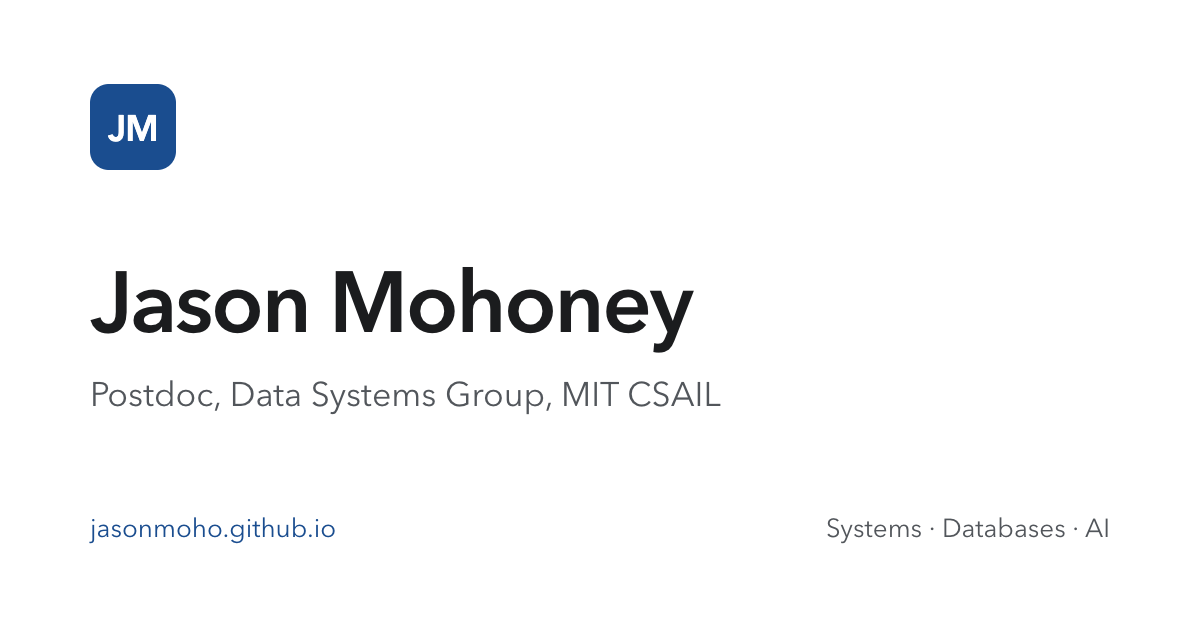
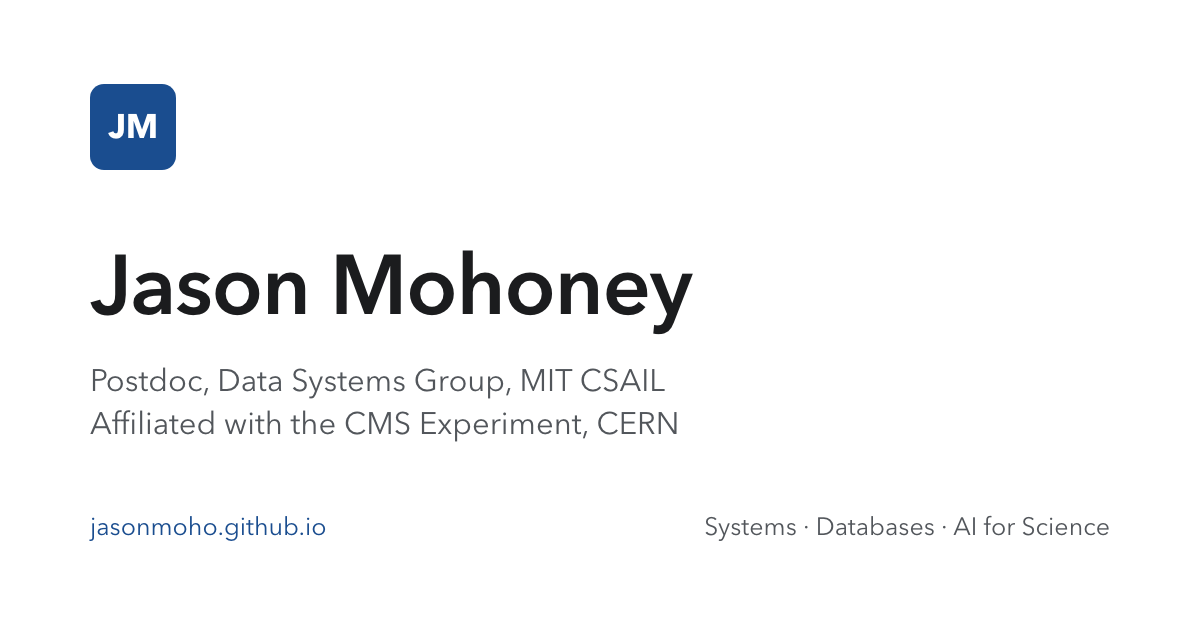
Add Akmon, CMS affiliation, project cards, and selected papers
- Bio and header mention the CMS experiment at CERN and an interest in
  AI for scientific operations and discovery.
- New Projects section with cards for Akmon and OKGs and for Archi.
- Organizer of the Knowledge Bases and Agents Workshop at CERN (2026)
  under Service.
- Add the Guarded Commits preprint; list Archi as CHEP 2026.
- Publications open on a Selected view with a switch to show all.
  Without JavaScript, and in print, every paper shows.
- Use each device's system font instead of Avenir Next.
- Footer with the last-updated month, a print style, and a faint
  underline on bio links (Lighthouse accessibility).
- Page descriptions, search data, and preview.png updated to match.

diff --git a/index.html b/index.html
@@ -4,16 +4,16 @@
 <meta charset="utf-8">
 <meta name="viewport" content="width=device-width, initial-scale=1">
 <title>Jason Mohoney</title>
-<meta name="description" content="Jason Mohoney is a postdoc in the Data Systems Group at MIT CSAIL working at the intersection of systems, databases, and artificial intelligence.">
+<meta name="description" content="Jason Mohoney is a postdoc in the Data Systems Group at MIT CSAIL, affiliated with the CMS experiment at CERN, working on systems, databases, and AI for scientific operations and discovery.">
 <link rel="canonical" href="https://jasonmoho.github.io/">
 <meta property="og:type" content="profile">
 <meta property="og:title" content="Jason Mohoney">
-<meta property="og:description" content="Postdoc in the Data Systems Group at MIT CSAIL working at the intersection of systems, databases, and artificial intelligence.">
+<meta property="og:description" content="Postdoc in the Data Systems Group at MIT CSAIL, affiliated with the CMS experiment at CERN. Systems, databases, and AI for scientific operations and discovery.">
 <meta property="og:url" content="https://jasonmoho.github.io/">
 <meta property="og:image" content="https://jasonmoho.github.io/preview.png">
 <meta property="og:image:width" content="1200">
 <meta property="og:image:height" content="630">
-<meta property="og:image:alt" content="Jason Mohoney, postdoc in the Data Systems Group at MIT CSAIL">
+<meta property="og:image:alt" content="Jason Mohoney, postdoc in the Data Systems Group at MIT CSAIL, affiliated with the CMS Experiment at CERN">
 <meta name="twitter:card" content="summary_large_image">
 <script type="application/ld+json">
 {
@@ -22,11 +22,18 @@
   "name": "Jason Mohoney",
   "url": "https://jasonmoho.github.io/",
   "jobTitle": "Postdoc",
-  "affiliation": {
-    "@type": "Organization",
-    "name": "MIT Computer Science and Artificial Intelligence Laboratory",
-    "url": "https://dsg.csail.mit.edu/"
-  },
+  "affiliation": [
+    {
+      "@type": "Organization",
+      "name": "MIT Computer Science and Artificial Intelligence Laboratory",
+      "url": "https://dsg.csail.mit.edu/"
+    },
+    {
+      "@type": "Organization",
+      "name": "CMS Experiment at CERN",
+      "url": "https://cms.cern/"
+    }
+  ],
   "alumniOf": {
     "@type": "CollegeOrUniversity",
     "name": "University of Wisconsin-Madison",
@@ -35,7 +42,8 @@
   "knowsAbout": [
     "Systems",
     "Databases",
-    "Artificial intelligence"
+    "Artificial intelligence",
+    "AI for scientific operations and discovery"
   ],
   "sameAs": [
     "https://scholar.google.com/citations?user=MT0bFLcAAAAJ&hl=en",
@@ -64,8 +72,8 @@
     margin: 0;
     background: var(--bg);
     color: var(--text);
-    /* Avenir Next ships with macOS and iOS; other systems fall back to their own sans-serif. */
-    font: 400 1.0625rem/1.65 "Avenir Next", Avenir, "Segoe UI", Roboto, "Helvetica Neue", Arial, sans-serif;
+    /* Each device's own interface font: San Francisco on Apple, Segoe UI on Windows, Roboto on Android. */
+    font: 400 1.0625rem/1.65 system-ui, -apple-system, "Segoe UI", Roboto, "Helvetica Neue", Arial, sans-serif;
     -webkit-font-smoothing: antialiased;
   }
   a { color: var(--accent); text-decoration: none; }
@@ -81,10 +89,12 @@
   .links .email { color: var(--muted); font-weight: 400; }
   .bio { font-size: 1.125rem; line-height: 1.7; margin: 0; }
   .bio b { font-weight: 600; }
+  /* Links inside running text need more than color to stand out, so they get a faint underline. */
+  .bio a { text-decoration: underline; text-decoration-thickness: 1px; text-decoration-color: rgba(26, 77, 143, 0.35); text-underline-offset: 0.18em; }
+  .bio a:hover { text-decoration-color: currentColor; }
 
   h2 { font-size: 0.8125rem; font-weight: 600; letter-spacing: 0.12em; text-transform: uppercase; color: var(--muted); margin: 3.5rem 0 1.5rem; padding-bottom: 0.65rem; border-bottom: 1px solid var(--line); }
-  .year { font-size: 1rem; font-weight: 600; margin: 2.25rem 0 0.85rem; font-variant-numeric: tabular-nums; }
-  .pub-year:first-of-type .year { margin-top: 0; }
+  .year { font-size: 1rem; font-weight: 600; margin: 0 0 0.85rem; font-variant-numeric: tabular-nums; }
   .pub { margin: 0 0 1.5rem; }
   .pub-title { font-weight: 600; line-height: 1.45; }
   .authors { color: var(--muted); font-size: 0.96875rem; margin-top: 0.2rem; }
@@ -93,6 +103,40 @@
   .venue { font-style: italic; }
   .venue:not(:last-child) { padding-right: 1rem; border-right: 1px solid var(--line); }
   .meta a { font-weight: 500; }
+
+  .projects { display: grid; grid-template-columns: repeat(auto-fit, minmax(17rem, 1fr)); gap: 1rem; }
+  .project { display: flex; flex-direction: column; align-items: center; text-align: center; gap: 0.75rem; padding: 1.5rem 1.5rem 1.25rem; border: 1px solid var(--line); border-radius: 10px; transition: border-color 0.15s, box-shadow 0.15s; }
+  .project:hover { border-color: #c5d2e3; box-shadow: 0 2px 10px rgba(26, 77, 143, 0.07); }
+  .project-art { flex: none; width: 3.5rem; height: 3.5rem; }
+  /* The body fills the card's height so each card's links sit on the same line. */
+  .project-body { min-width: 0; flex: 1; display: flex; flex-direction: column; align-items: center; }
+  .project-name { font-size: 1.0625rem; font-weight: 600; line-height: 1.45; margin: 0 0 0.2rem; }
+  .project-desc { color: var(--muted); font-size: 0.96875rem; line-height: 1.65; margin: 0 0 0.6rem; }
+  .project .meta { margin-top: auto; justify-content: center; }
+
+  .pub-filter { display: inline-flex; margin: 0 0 1.75rem; padding: 3px; border: 1px solid var(--line); border-radius: 999px; }
+  .pub-filter button { font: inherit; font-size: 0.875rem; font-weight: 500; color: var(--muted); background: none; border: 0; border-radius: 999px; padding: 0.3rem 1rem; cursor: pointer; }
+  .pub-filter button:hover { color: var(--text); }
+  .pub-filter button[aria-pressed="true"] { background: var(--accent); color: #fff; }
+  .pub-filter button:focus-visible { outline: 2px solid var(--accent); outline-offset: 2px; }
+  /* The list spaces the years itself, so hiding a year in the Selected view leaves no gap. */
+  /* 0.75rem plus each paper's 1.5rem bottom margin gives the original 2.25rem between years. */
+  .pub-list { display: flex; flex-direction: column; gap: 0.75rem; }
+  .show-selected .pub:not(.selected),
+  .show-selected .pub-year:not(:has(.selected)) { display: none; }
+
+  footer { margin-top: 4rem; padding-top: 1.25rem; border-top: 1px solid var(--line); color: var(--muted); font-size: 0.875rem; text-align: center; }
+
+  @media print {
+    /* Print every paper, in black, without the interactive pieces. */
+    :root { --muted: #333; --accent: #000; }
+    .page { padding: 0; max-width: none; }
+    .pub-filter { display: none !important; }
+    .show-selected .pub, .show-selected .pub-year { display: block !important; }
+    .project { break-inside: avoid; box-shadow: none; }
+    .pub, .row { break-inside: avoid; }
+    h2 { break-after: avoid; }
+  }
 
   .row { display: flex; justify-content: space-between; align-items: baseline; gap: 1.5rem; padding: 0.35rem 0; }
   .row .what { min-width: 0; }
@@ -111,7 +155,7 @@
 <div class="page">
   <header>
     <h1>Jason Mohoney</h1>
-    <p class="role">Postdoc, Data Systems Group, MIT CSAIL</p>
+    <p class="role">Postdoc, Data Systems Group, MIT CSAIL<br>Affiliated with the CMS Experiment, CERN</p>
     <ul class="links">
       <li><a href="https://scholar.google.com/citations?user=MT0bFLcAAAAJ&amp;hl=en">Google Scholar</a></li>
       <li><a href="https://github.com/JasonMoho">GitHub</a></li>
@@ -119,16 +163,71 @@
     </ul>
   </header>
   <main>
-    <p class="bio">I am a postdoc in the <a href="https://dsg.csail.mit.edu/">Data Systems Group</a> at MIT advised by <a href="https://people.csail.mit.edu/kraska/">Tim Kraska</a> and <a href="https://people.csail.mit.edu/madden/">Sam Madden</a>. I completed my Ph.D. at UW-Madison advised by <a href="https://thodrek.github.io">Theodoros Rekatsinas</a> and <a href="https://shivaram.org">Shivaram Venkataraman</a>. My research interests lie in the intersection of <b>systems, databases, and artificial intelligence</b>.</p>
+    <p class="bio">I am a postdoc in the <a href="https://dsg.csail.mit.edu/">Data Systems Group</a> at MIT advised by <a href="https://people.csail.mit.edu/kraska/">Tim Kraska</a> and <a href="https://people.csail.mit.edu/madden/">Sam Madden</a>. I completed my Ph.D. at UW-Madison advised by <a href="https://thodrek.github.io">Theodoros Rekatsinas</a> and <a href="https://shivaram.org">Shivaram Venkataraman</a>. I am also affiliated with the <a href="https://cms.cern/">CMS experiment</a> at CERN. My research interests lie in the intersection of <b>systems, databases, and artificial intelligence</b>, and I am especially interested in AI for scientific operations and discovery.</p>
+
+    <section id="projects">
+      <h2>Projects</h2>
+      <ul class="projects">
+        <li class="project">
+          <!-- A small knowledge graph: one highlighted node linked to the rest. -->
+          <svg class="project-art" viewBox="3 6 54 54" aria-hidden="true">
+            <g stroke="#9db3d1" stroke-width="1.6">
+              <line x1="32" y1="32" x2="14" y2="16"/><line x1="32" y1="32" x2="50" y2="14"/>
+              <line x1="32" y1="32" x2="52" y2="42"/><line x1="32" y1="32" x2="18" y2="50"/>
+              <line x1="14" y1="16" x2="50" y2="14"/><line x1="52" y1="42" x2="38" y2="54"/>
+              <line x1="18" y1="50" x2="38" y2="54"/><line x1="14" y1="16" x2="8" y2="36"/>
+              <line x1="8" y1="36" x2="18" y2="50"/>
+            </g>
+            <g fill="#ffffff" stroke="#1a4d8f" stroke-width="1.8">
+              <circle cx="14" cy="16" r="4"/><circle cx="50" cy="14" r="4"/><circle cx="52" cy="42" r="4"/>
+              <circle cx="18" cy="50" r="4"/><circle cx="38" cy="54" r="3.2"/><circle cx="8" cy="36" r="3.2"/>
+            </g>
+            <circle cx="32" cy="32" r="7" fill="#1a4d8f"/>
+          </svg>
+          <div class="project-body">
+            <h3 class="project-name"><a href="https://github.com/mitdbg/akmon">Akmon and OKGs</a></h3>
+            <p class="project-desc">Operational knowledge graphs (OKGs): consistent, versioned knowledge bases of an organization's data.</p>
+            <div class="meta"><a href="https://github.com/mitdbg/akmon">Code</a></div>
+          </div>
+        </li>
+        <li class="project">
+          <img class="project-art" src="images/archi.png" alt="" width="64" height="64">
+          <div class="project-body">
+            <h3 class="project-name"><a href="https://archi-physics.github.io/archi/">Archi</a></h3>
+            <p class="project-desc">Agentic operations at the CMS experiment, in use by CMS Computing Operations.</p>
+            <div class="meta">
+              <a href="https://archi-physics.github.io/archi/">Website</a>
+              <a href="https://github.com/archi-physics/archi">Code</a>
+              <a href="https://arxiv.org/abs/2606.04755">Paper</a>
+            </div>
+          </div>
+        </li>
+      </ul>
+    </section>
 
     <section id="publications">
       <h2>Publications</h2>
       <!-- Newest first. To add a paper, copy an <li class="pub"> block into its year
            (or copy a whole <div class="pub-year"> block for a new year).
-           Wrap your own name in <strong class="me">. Delete link lines that don't apply. -->
+           Wrap your own name in <strong class="me">. Delete link lines that don't apply.
+           Add "selected" to a paper's class to show it in the default Selected view. -->
+      <!-- Hidden until the script runs, so visitors without JavaScript see every paper. -->
+      <div class="pub-filter" role="group" aria-label="Which publications to show" hidden>
+        <button type="button" data-show="selected" aria-pressed="true">Selected</button>
+        <button type="button" data-show="all" aria-pressed="false">All</button>
+      </div>
+      <div class="pub-list">
       <div class="pub-year">
         <h3 class="year">2026</h3>
         <ol class="pubs">
+          <li class="pub">
+            <div class="pub-title"><a href="https://arxiv.org/abs/2610.00037">Guarded Commits: Transactional Human Approvals for LLM Workflows</a></div>
+            <div class="authors">Laurent Bindschaedler, Ferdi Kossmann, Chunwei Liu, <strong class="me">Jason Mohoney</strong></div>
+            <div class="meta">
+              <span class="venue">arXiv preprint</span>
+              <a href="https://arxiv.org/pdf/2610.00037">PDF</a>
+            </div>
+          </li>
           <li class="pub">
             <div class="pub-title"><a href="https://doi.org/10.1145/3786335.3813143">Tressoir: Unifying Online, Offline, and HIL Design and Evolution of Multi-Agent Systems via Interpretable Blueprints</a></div>
             <div class="authors">Amadou Latyr Ngom, Ziniu Wu, <strong class="me">Jason Mohoney</strong>, James Moore, Alex Zhang, Samuel Madden, Tim Kraska</div>
@@ -152,14 +251,15 @@
               <a href="https://arxiv.org/pdf/2609.14889">PDF</a>
             </div>
           </li>
-          <li class="pub">
+          <li class="pub selected">
             <div class="pub-title"><a href="https://arxiv.org/abs/2606.04755">Archi: Agentic Operations at the CMS Experiment</a></div>
             <!-- Lists longer than about eight names are trimmed to the first three plus "et al.";
            the full list stays in the title attribute and on the linked paper page. -->
             <div class="authors" title="Pietro Lugato, Luca Lavezzo, Jason Mohoney, Hasan Ozturk, Muhammad Hassan Ahmed, Juan Pablo Salas, Viphava Ohm, Krittin Phornsiricharoenphant, Gabriele Benelli, Mariarosaria D&#x27;Alfonso, Manasvita Joshi, Warren Nam, Aron Soha, Samantha Sunnarborg, Austin Swinney, Jack Tucker, Dmytro Kovalskyi, Tim Kraska, Christoph Paus">Pietro Lugato, Luca Lavezzo, <strong class="me">Jason Mohoney</strong>, et al.</div>
             <div class="meta">
-              <span class="venue">arXiv preprint</span>
+              <span class="venue">CHEP 2026</span>
               <a href="https://arxiv.org/pdf/2606.04755">PDF</a>
+              <a href="https://arxiv.org/abs/2606.04755">arXiv</a>
               <a href="https://github.com/archi-physics/archi">Code</a>
             </div>
           </li>
@@ -168,7 +268,7 @@
       <div class="pub-year">
         <h3 class="year">2025</h3>
         <ol class="pubs">
-          <li class="pub">
+          <li class="pub selected">
             <div class="pub-title"><a href="https://www.usenix.org/conference/osdi25/presentation/mohoney">Quake: Adaptive Indexing for Vector Search</a></div>
             <div class="authors"><strong class="me">Jason Mohoney</strong>, Devesh Sarda, Mengze Tang, Shihabur Rahman Chowdhury, Anil Pacaci, Ihab F. Ilyas, Theodoros Rekatsinas, Shivaram Venkataraman</div>
             <div class="meta">
@@ -220,7 +320,7 @@
       <div class="pub-year">
         <h3 class="year">2023</h3>
         <ol class="pubs">
-          <li class="pub">
+          <li class="pub selected">
             <div class="pub-title"><a href="https://doi.org/10.1145/3589777">High-Throughput Vector Similarity Search in Knowledge Graphs</a></div>
             <div class="authors"><strong class="me">Jason Mohoney</strong>, Anil Pacaci, Shihabur Rahman Chowdhury, Ali Mousavi, Ihab F. Ilyas, Umar Farooq Minhas, Jeffrey Pound, Theodoros Rekatsinas</div>
             <div class="meta">
@@ -229,7 +329,7 @@
               <a href="https://arxiv.org/abs/2304.01926">arXiv</a>
             </div>
           </li>
-          <li class="pub">
+          <li class="pub selected">
             <div class="pub-title"><a href="https://doi.org/10.1145/3552326.3567501">MariusGNN: Resource-Efficient Out-of-Core Training of Graph Neural Networks</a></div>
             <div class="authors">Roger Waleffe, <strong class="me">Jason Mohoney</strong>, Theodoros Rekatsinas, Shivaram Venkataraman</div>
             <div class="meta">
@@ -252,7 +352,7 @@
       <div class="pub-year">
         <h3 class="year">2021</h3>
         <ol class="pubs">
-          <li class="pub">
+          <li class="pub selected">
             <div class="pub-title"><a href="https://www.usenix.org/conference/osdi21/presentation/mohoney">Marius: Learning Massive Graph Embeddings on a Single Machine</a></div>
             <div class="authors"><strong class="me">Jason Mohoney</strong>, Roger Waleffe, Yiheng Xu, Theodoros Rekatsinas, Shivaram Venkataraman</div>
             <div class="meta">
@@ -288,6 +388,7 @@
           </li>
         </ol>
       </div>
+      </div>
     </section>
 
     <section id="experience">
@@ -303,6 +404,7 @@
       <h2>Service</h2>
       <ul class="rows">
         <li class="row"><span class="what"><strong>VLDB</strong><span class="sep"> · </span>Program Committee</span><span class="when">2027</span></li>
+        <li class="row"><span class="what"><a href="https://indico.cern.ch/event/1716863/"><strong>Knowledge Bases and Agents Workshop, CERN</strong></a><span class="sep"> · </span>Organizer</span><span class="when">2026</span></li>
         <li class="row"><span class="what"><strong>ICDE</strong><span class="sep"> · </span>Program Committee</span><span class="when">2026</span></li>
         <li class="row"><span class="what"><strong>VLDB Journal</strong><span class="sep"> · </span>Reviewer</span><span class="when">2025</span></li>
         <li class="row"><span class="what"><strong>SIGMOD</strong><span class="sep"> · </span>Program Committee</span><span class="when">2025</span></li>
@@ -319,6 +421,22 @@
       </ul>
     </section>
   </main>
+  <footer>Last updated October 2026</footer>
 </div>
+<script>
+  // Publications open on the Selected view; the buttons switch between Selected and All.
+  (function () {
+    var section = document.getElementById('publications');
+    var filter = section.querySelector('.pub-filter');
+    var buttons = filter.querySelectorAll('button');
+    function show(which) {
+      section.classList.toggle('show-selected', which === 'selected');
+      buttons.forEach(function (b) { b.setAttribute('aria-pressed', String(b.dataset.show === which)); });
+    }
+    buttons.forEach(function (b) { b.addEventListener('click', function () { show(b.dataset.show); }); });
+    filter.hidden = false;
+    show('selected');
+  })();
+</script>
 </body>
 </html>

diff --git a/404.html b/404.html
@@ -26,7 +26,7 @@
     padding: 2rem;
     background: var(--bg);
     color: var(--text);
-    font: 400 1.0625rem/1.65 "Avenir Next", Avenir, "Segoe UI", Roboto, "Helvetica Neue", Arial, sans-serif;
+    font: 400 1.0625rem/1.65 system-ui, -apple-system, "Segoe UI", Roboto, "Helvetica Neue", Arial, sans-serif;
     -webkit-font-smoothing: antialiased;
   }
   h1 { font-size: 1.75rem; font-weight: 600; letter-spacing: -0.01em; margin: 0 0 0.5rem; }
